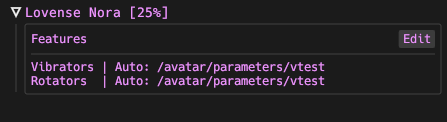
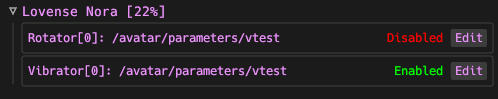
Updated README photos

diff --git a/README.md b/README.md
@@ -80,12 +80,12 @@ An app to connect bluetooth sex toys to your VRChat avatar using VRChat's OSC im
 1. Run VibeCheck.
 2. If VibeCheck is your only OSC app that receives data from VRChat, skip step 3.
 3. If you are using multiple OSC apps that **Receive** data from VRChat consider using my OSC router app: [VOR](https://github.com/SutekhVRC/VOR/releases/latest). Then go to the 'Settings' tab and setup VibeCheck's OSC bind host/port to listen on.
-4. Make sure bluetooth adapter is plugged in/enabled, and turn on your toy(s).
-5. Once your toy(s) are connected, configure them to use the parameters you put in the Contacts Receiver scripts. Click on the toy you want to configure, and click 'Edit'. The edit mode will look different depending on the toy being used. A toy's "features" will be organized into "feature types". The feature types supported are: Vibration/Rotation/Linear. There will be a feature mode for each feature type. The two feature modes are Auto and Custom. Auto mode means one parameter will control every feature in that feature type. Custom mode allows you to set unique parameters for each feature within a feature type. You have full control of the parameter address to listen for. So you will have to input the whole parameter address. You will almost always only need to use the avatar parameters address. So inputting your parameter will follow this format: /avatar/parameters/YOUR_CONTACTS_RECEIVER_PARAMETER_HERE. So if I put the parameter name 'vtest' into my contacts receiver on my avatar I would input '/avatar/parameters/vtest' for my parameter in the toy's configuration. Once you are done press 'Save'.
+4. Make sure your [connection method is setup](https://github.com/SutekhVRC/VibeCheck#connection-methods), and turn on your toy(s).
+5. Once your toy(s) are connected, configure them to use the parameters you put in the Contacts Receiver scripts. Click on the toy's features you want to configure, and click 'Edit' on the feature u want to configure. The edit mode will look different depending on the toy being used. You have full control of the parameter address to listen for. So you will have to input the whole parameter address. You will almost always only need to use the avatar parameters address. So inputting your parameter will follow this format: /avatar/parameters/YOUR_CONTACTS_RECEIVER_PARAMETER_HERE. So if I put the parameter name 'vtest' into my contacts receiver on my avatar I would input '/avatar/parameters/vtest' for my parameter in the toy's configuration. Once you are done press 'Save'.
 
 ![Toy Config](./images/Toy_config.png)
 
-6. Once your toy is configured press 'Enable' to start using VibeCheck with VRChat.
+6. Once your toy is configured/saved press 'Enable' to start using VibeCheck with VRChat.
 7. Once you are in VRChat you will need to enable OSC in the expressions menu. If you have use OSC before with your avatar, remember to refresh the OSC config for that avatar (In the OSC expressions menu).
 8. You should be all set now. Enjoyyyyyy ;}
 
